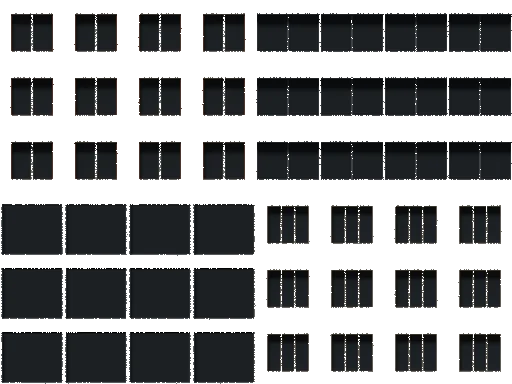
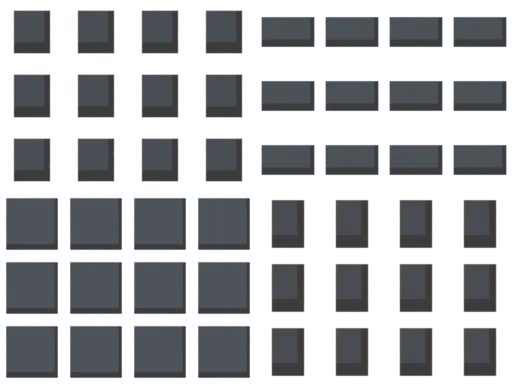
v5.9.1: окна зданий не бликают — LOD-эмиссия окон + перезапечённый в Blender фасад
- skyline3d: эмиссия окон города получает аналитический LOD — когда ячейка окна
  становится мельче пикселя, случайное «вкл/выкл» и яркость сводятся к средней
  доле зажжённых окон. Это устраняет темпоральный алиасинг (блики/мерцание) при
  вращении башни, оставляя чёткие отдельные окна вблизи.
- Фасадный атлас города (img/tower/city-fac.webp) перезапечён в Blender (Cycles):
  4 стиля домов, окна как проёмы в стене с утопленным стеклом и откосами (AO),
  альфа — маска окон, RGB сохранён под прозрачностью. Мип-фильтрация убирает рябь
  на среднем плане. 512x384, ~42 КБ.
- Версия 5.9.1, README, CHANGELOG, дорожная карта.

diff --git a/docs/roadmap/roadmap.html b/docs/roadmap/roadmap.html
@@ -58,7 +58,7 @@ li.ok::before{background:var(--gold)}
 <div class="bgimg"></div><div class="glow"></div>
 <div class="wrap">
 <header><img src="../../public/img/emblem.webp" alt=""><div><div class="eb">Mile High Club · dev roadmap</div><h1>Дорожная <span>карта</span></h1></div>
-<div class="stats"><div><span class="big" data-current>v5.9.0</span><small>текущая версия</small></div><div><span class="big">7</span><small>обновлений</small></div><div><span class="big">110</span><small>коммитов</small></div><div><span class="big">222</span><small>автотестов</small></div></div>
+<div class="stats"><div><span class="big" data-current>v5.9.1</span><small>текущая версия</small></div><div><span class="big">7</span><small>обновлений</small></div><div><span class="big">110</span><small>коммитов</small></div><div><span class="big">222</span><small>автотестов</small></div></div>
 <div class="legend"><span><i style="background:var(--gold)"></i>Выпущено</span><span><i style="background:var(--pink)"></i>В работе</span><span><i style="border:1.5px solid var(--mut)"></i>В планах</span></div></header>
 
 <div class="track"><div class="rail"></div><div class="prog" style="--p:92.86"></div>
@@ -83,7 +83,7 @@ li.ok::before{background:var(--gold)}
 <div class="c done"><span class="tag">ВЫПУЩЕНО</span><div class="ver"><b>v4.1.0 – v4.2.0</b> · ПАТЧИ</div><h2>Надёжность и кабинет</h2><div class="date">14–17.11.2026</div><ul>
 <li>Сервер держит в 5 раз больше запросов</li><li>Закрыты дыры безопасности</li><li>Тикеты закрываются без ошибки</li><li>Политика конфиденциальности</li><li>Кабинет: отмена и перенос брони</li><li>Чат и уведомления в кабинете</li><li>Статусы гостей и скидки</li><li>Удаление своих данных</li></ul></div>
 
-<div class="c now"><span class="tag">В РАБОТЕ</span><div class="ver"><b data-current>v5.9.0</b> · ОБНОВЛЕНИЕ 5</div><h2>Полировка</h2><div class="date">сейчас, на живом сайте</div><ul>
+<div class="c now"><span class="tag">В РАБОТЕ</span><div class="ver"><b data-current>v5.9.1</b> · ОБНОВЛЕНИЕ 5</div><h2>Полировка</h2><div class="date">сейчас, на живом сайте</div><ul>
 <li class="ok">Отзывы и вакансии</li><li class="ok">Приложение и превью ссылки</li><li class="ok">Уведомления, антиспам</li><li class="ok">Панель: поиск, шаблоны, таблицы</li><li class="ok">Графика из Blender</li><li class="ok">Правка этажей и номеров</li><li class="ok">Чат по брони и ключ-карта</li><li class="ok">Чаты и заявки в Discord</li><li class="ok">Безопасность и полировка UI</li><li class="ok">Фиксы по багрепорту</li><li class="ok">Гибкая панель и оптимизация</li><li class="ok">Понятная панель, LifeX, профиль</li><li>Выкатить кабинет и счётчик</li><li>Обратный отсчёт до открытия</li><li>«Персонал на смене»</li><li>Замер скорости и отчёт</li><li>Подключить LifeX</li></ul></div>
 </div></div>
 <div class="foot"><span>Сайт отеля и Discord-бот · Node.js, three.js, discord.js</span><span>Обновлено 19.11.2026</span></div>

diff --git a/public/js/skyline3d.js b/public/js/skyline3d.js
@@ -177,11 +177,17 @@ function cityMaterial() {
           win=smoothstep(.15,.85,fa.a)*aa; // без порога: на среднем плане стекло мягко сливается, без ряби
         }
         float r=h21(id+vId*7.13);
-        float on=step(1.-uLit,r)*win;
+        // LOD эмиссии окон: когда ячейка окна становится мельче пикселя, случайное «вкл/выкл» заменяем средней
+        // яркостью — зажжённые окна перестают бликать на движении камеры (аналог мип-фильтрации процедурного узора)
+        float lw=clamp((max(fwidth(g.x),fwidth(g.y))-.4)/.7,0.,1.);
+        float onCrisp=step(1.-uLit,r)*win;   // вблизи — чёткие отдельные окна
+        float onAvg=uLit*win;                // вдали — ровная доля зажжённых окон
+        float on=mix(onCrisp,onAvg,lw);
+        float bf=mix(.9+.6*r,1.2,lw);         // и яркость сходится к средней
         totalEmissiveRadiance+=vec3(.91,.76,.49)*uLit*.22*(1.-aa)*(1.-uDay*.75);
         vec3 wc=mix(vec3(.91,.76,.49),vec3(.96,.92,.82),step(.8,h21(id.yx+vId)));
         diffuseColor.rgb=mix(diffuseColor.rgb,diffuseColor.rgb*1.6+vec3(.02,.04,.05),win*(1.-on));
-        totalEmissiveRadiance+=wc*on*(.9+.6*r)*(1.-uDay*.75);
+        totalEmissiveRadiance+=wc*on*bf*(1.-uDay*.75);
         float band=step(.94,fract(vWp.y/.42/6.));
         diffuseColor.rgb*=1.-band*.25;
       } else if(vN.y>.5){ diffuseColor.rgb=mix(diffuseColor.rgb,vec3(.93,.92,.9),uSnow); }`);

diff --git a/README.md b/README.md
@@ -6,7 +6,7 @@
 
 **Сайт отеля над Лос-Сантосом и Discord-бот для GTA RP**
 
-Текущая версия: **<!--ver-->v5.9.0<!--/ver-->**
+Текущая версия: **<!--ver-->v5.9.1<!--/ver-->**
 
 Бронь номеров на 3D-башне · Le Ciel и заказ в номер · сигарный клуб · журнал · обращения с тикетами в Discord · панель персонала
 
@@ -17,6 +17,10 @@
 ![Главная: атриум отеля](docs/img/home.webp)
 
 ## Последнее обновление
+
+**v5.9.1 · Фикс · 19.11.2026**
+
+- **Окна зданий на вкладке «Номера» больше не бликают** на движении камеры: свет окон сводится к средней яркости, когда окно становится мельче пикселя (аналитический LOD эмиссии). Фасадный атлас города перезапечён в Blender — отдельные стили домов с утопленными окнами и мягкими откосами (мип-фильтрация убирает рябь на среднем плане).
 
 **v5.9.0 · Обновление 7 «Понятная панель» · 19.11.2026**
 

diff --git a/CHANGELOG.md b/CHANGELOG.md
@@ -7,6 +7,7 @@
 Номер версии хранится в `package.json` и виден на сайте (подвал) и в панели персонала. Новая версия — `npm run release -- patch|minor|major "Название"`.
 
 <!--versions-->
+- **v5.9.1** · 19.11.2026 · Окна зданий больше не бликают: LOD-эмиссия + запечённый в Blender фасад
 - **v5.9.0** · 19.11.2026 · Понятная панель с иконками, LifeX-тумблер, профиль, размер доски, оптимизация окон
 - **v5.8.0** · 19.11.2026 · Доска: вид по этажам или колонки по статусу, окошки сайта в настройках, оптимизация
 - **v5.7.0** · 19.11.2026 · Фиксы по багрепорту: вертушка, прогрузка, блюдо дня, доска, шапка, LifeX, счётчик Discord
